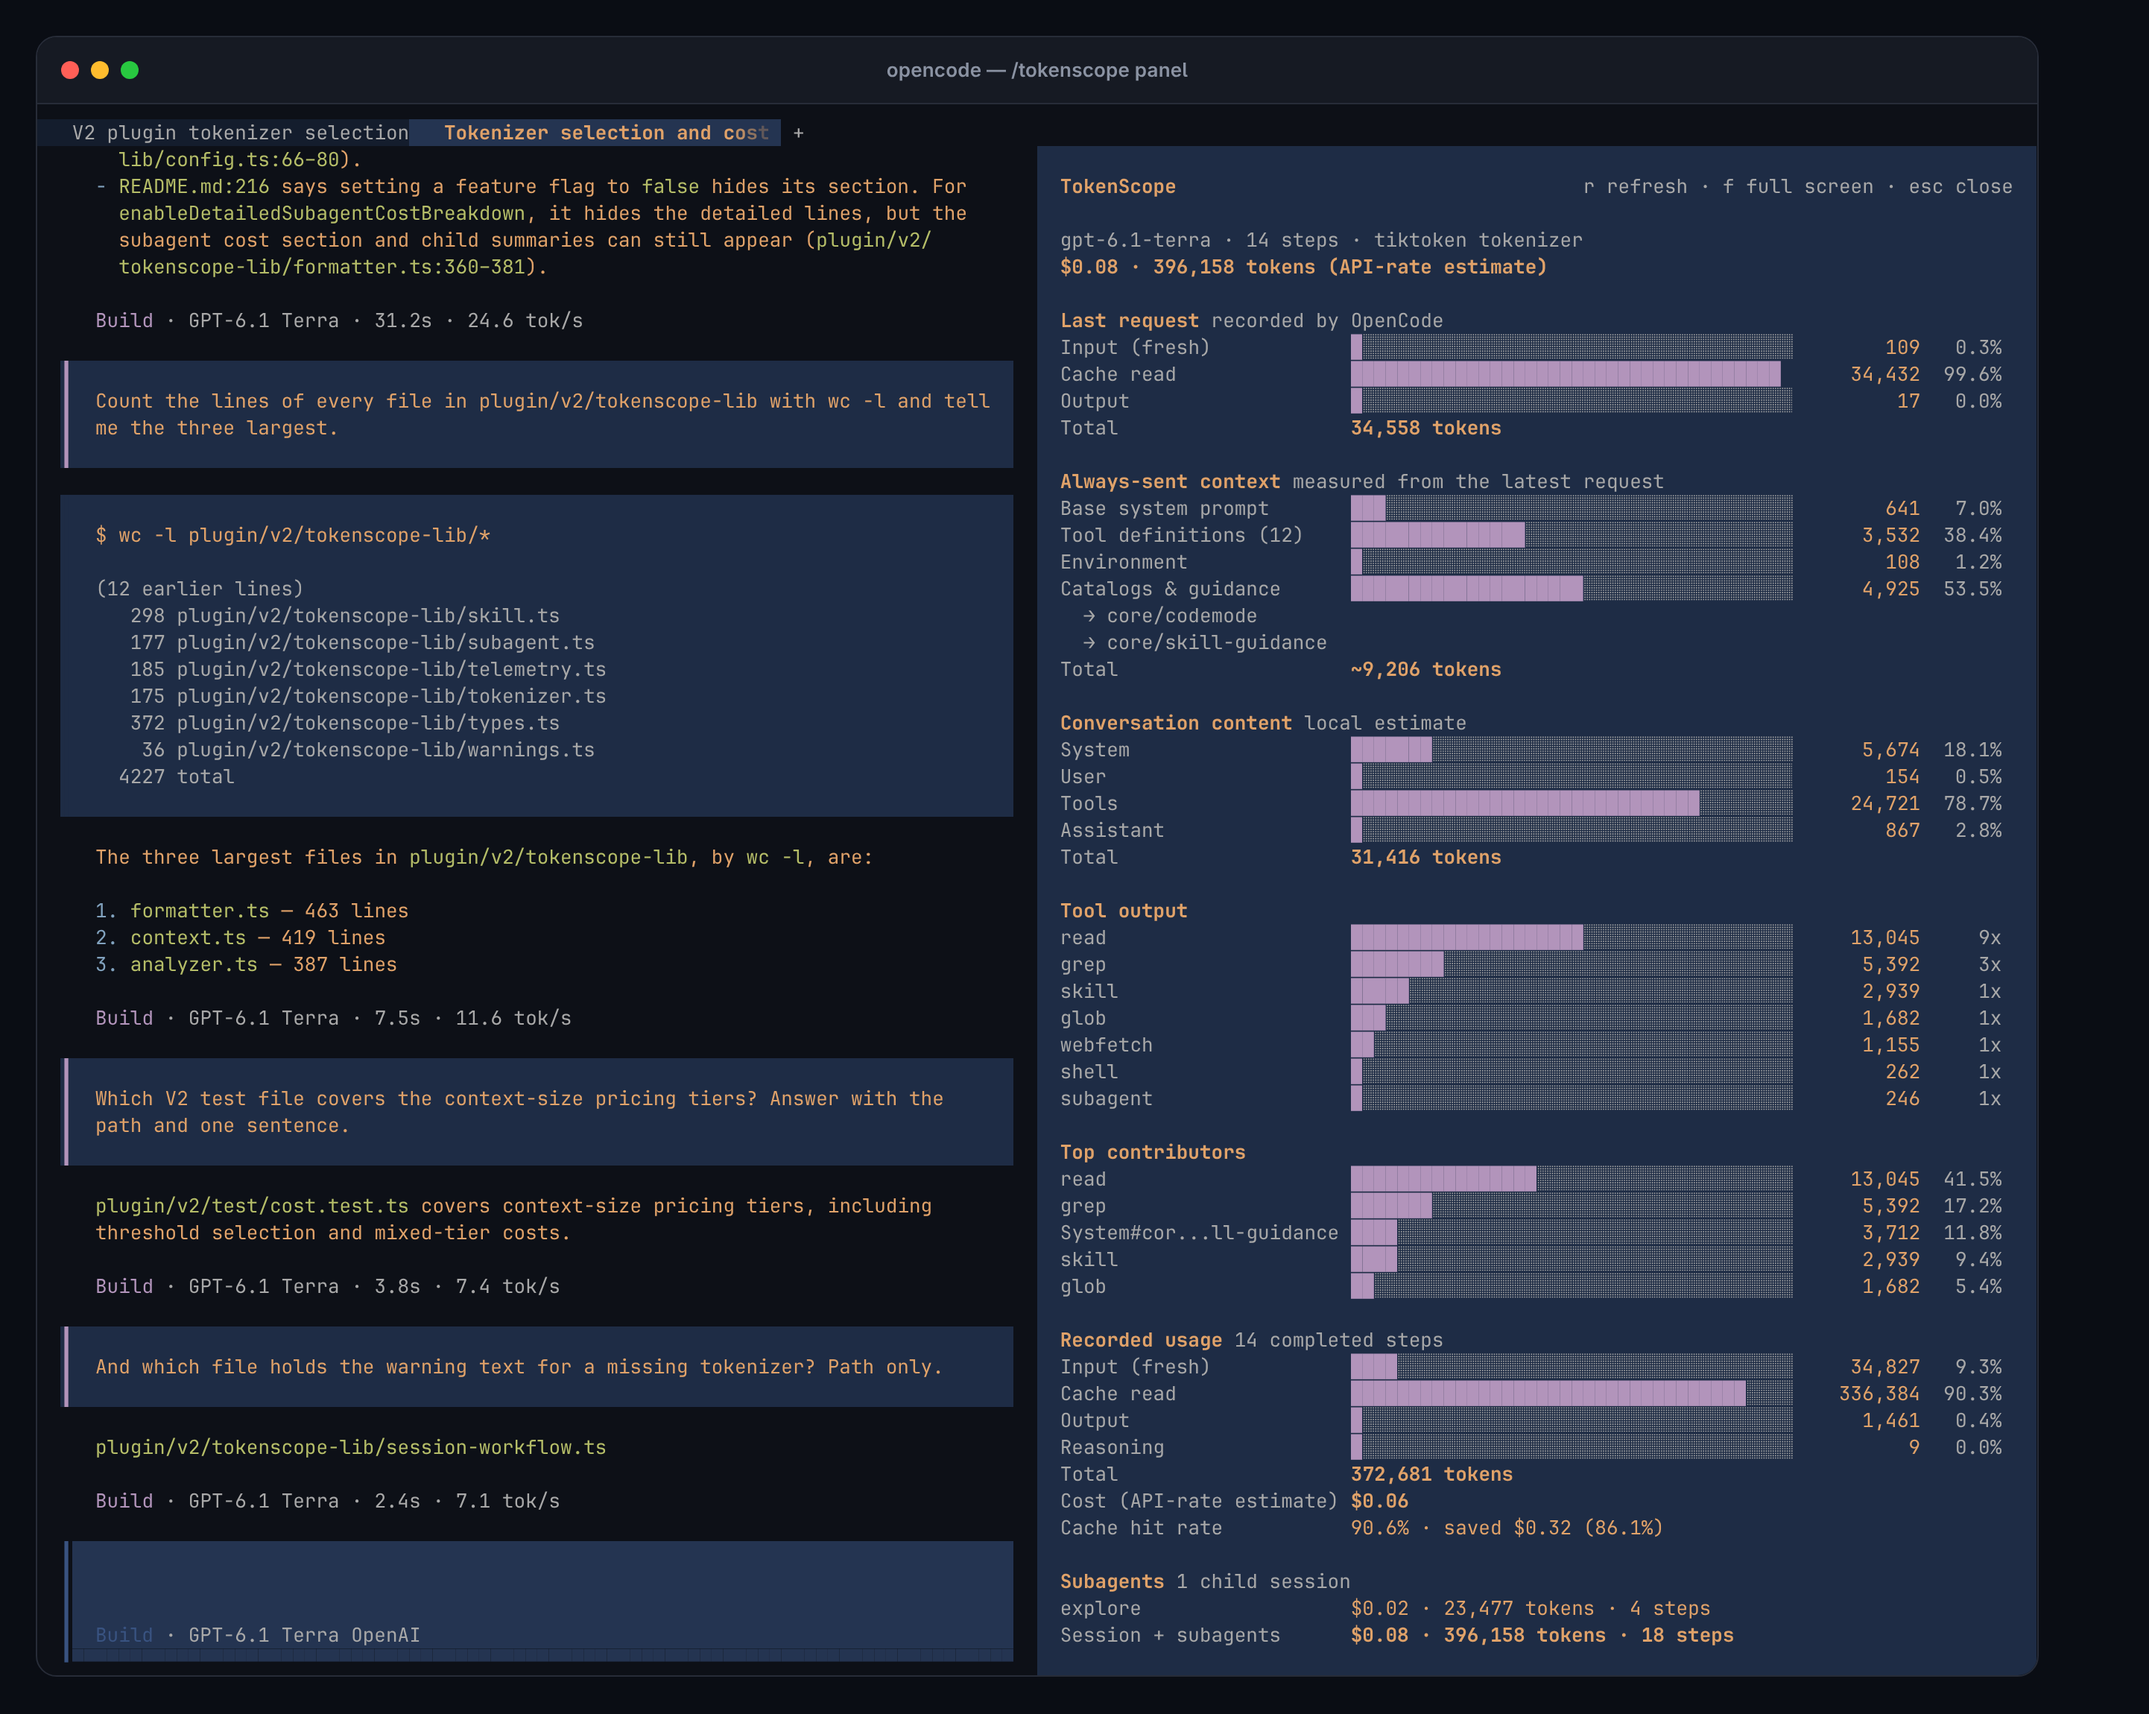
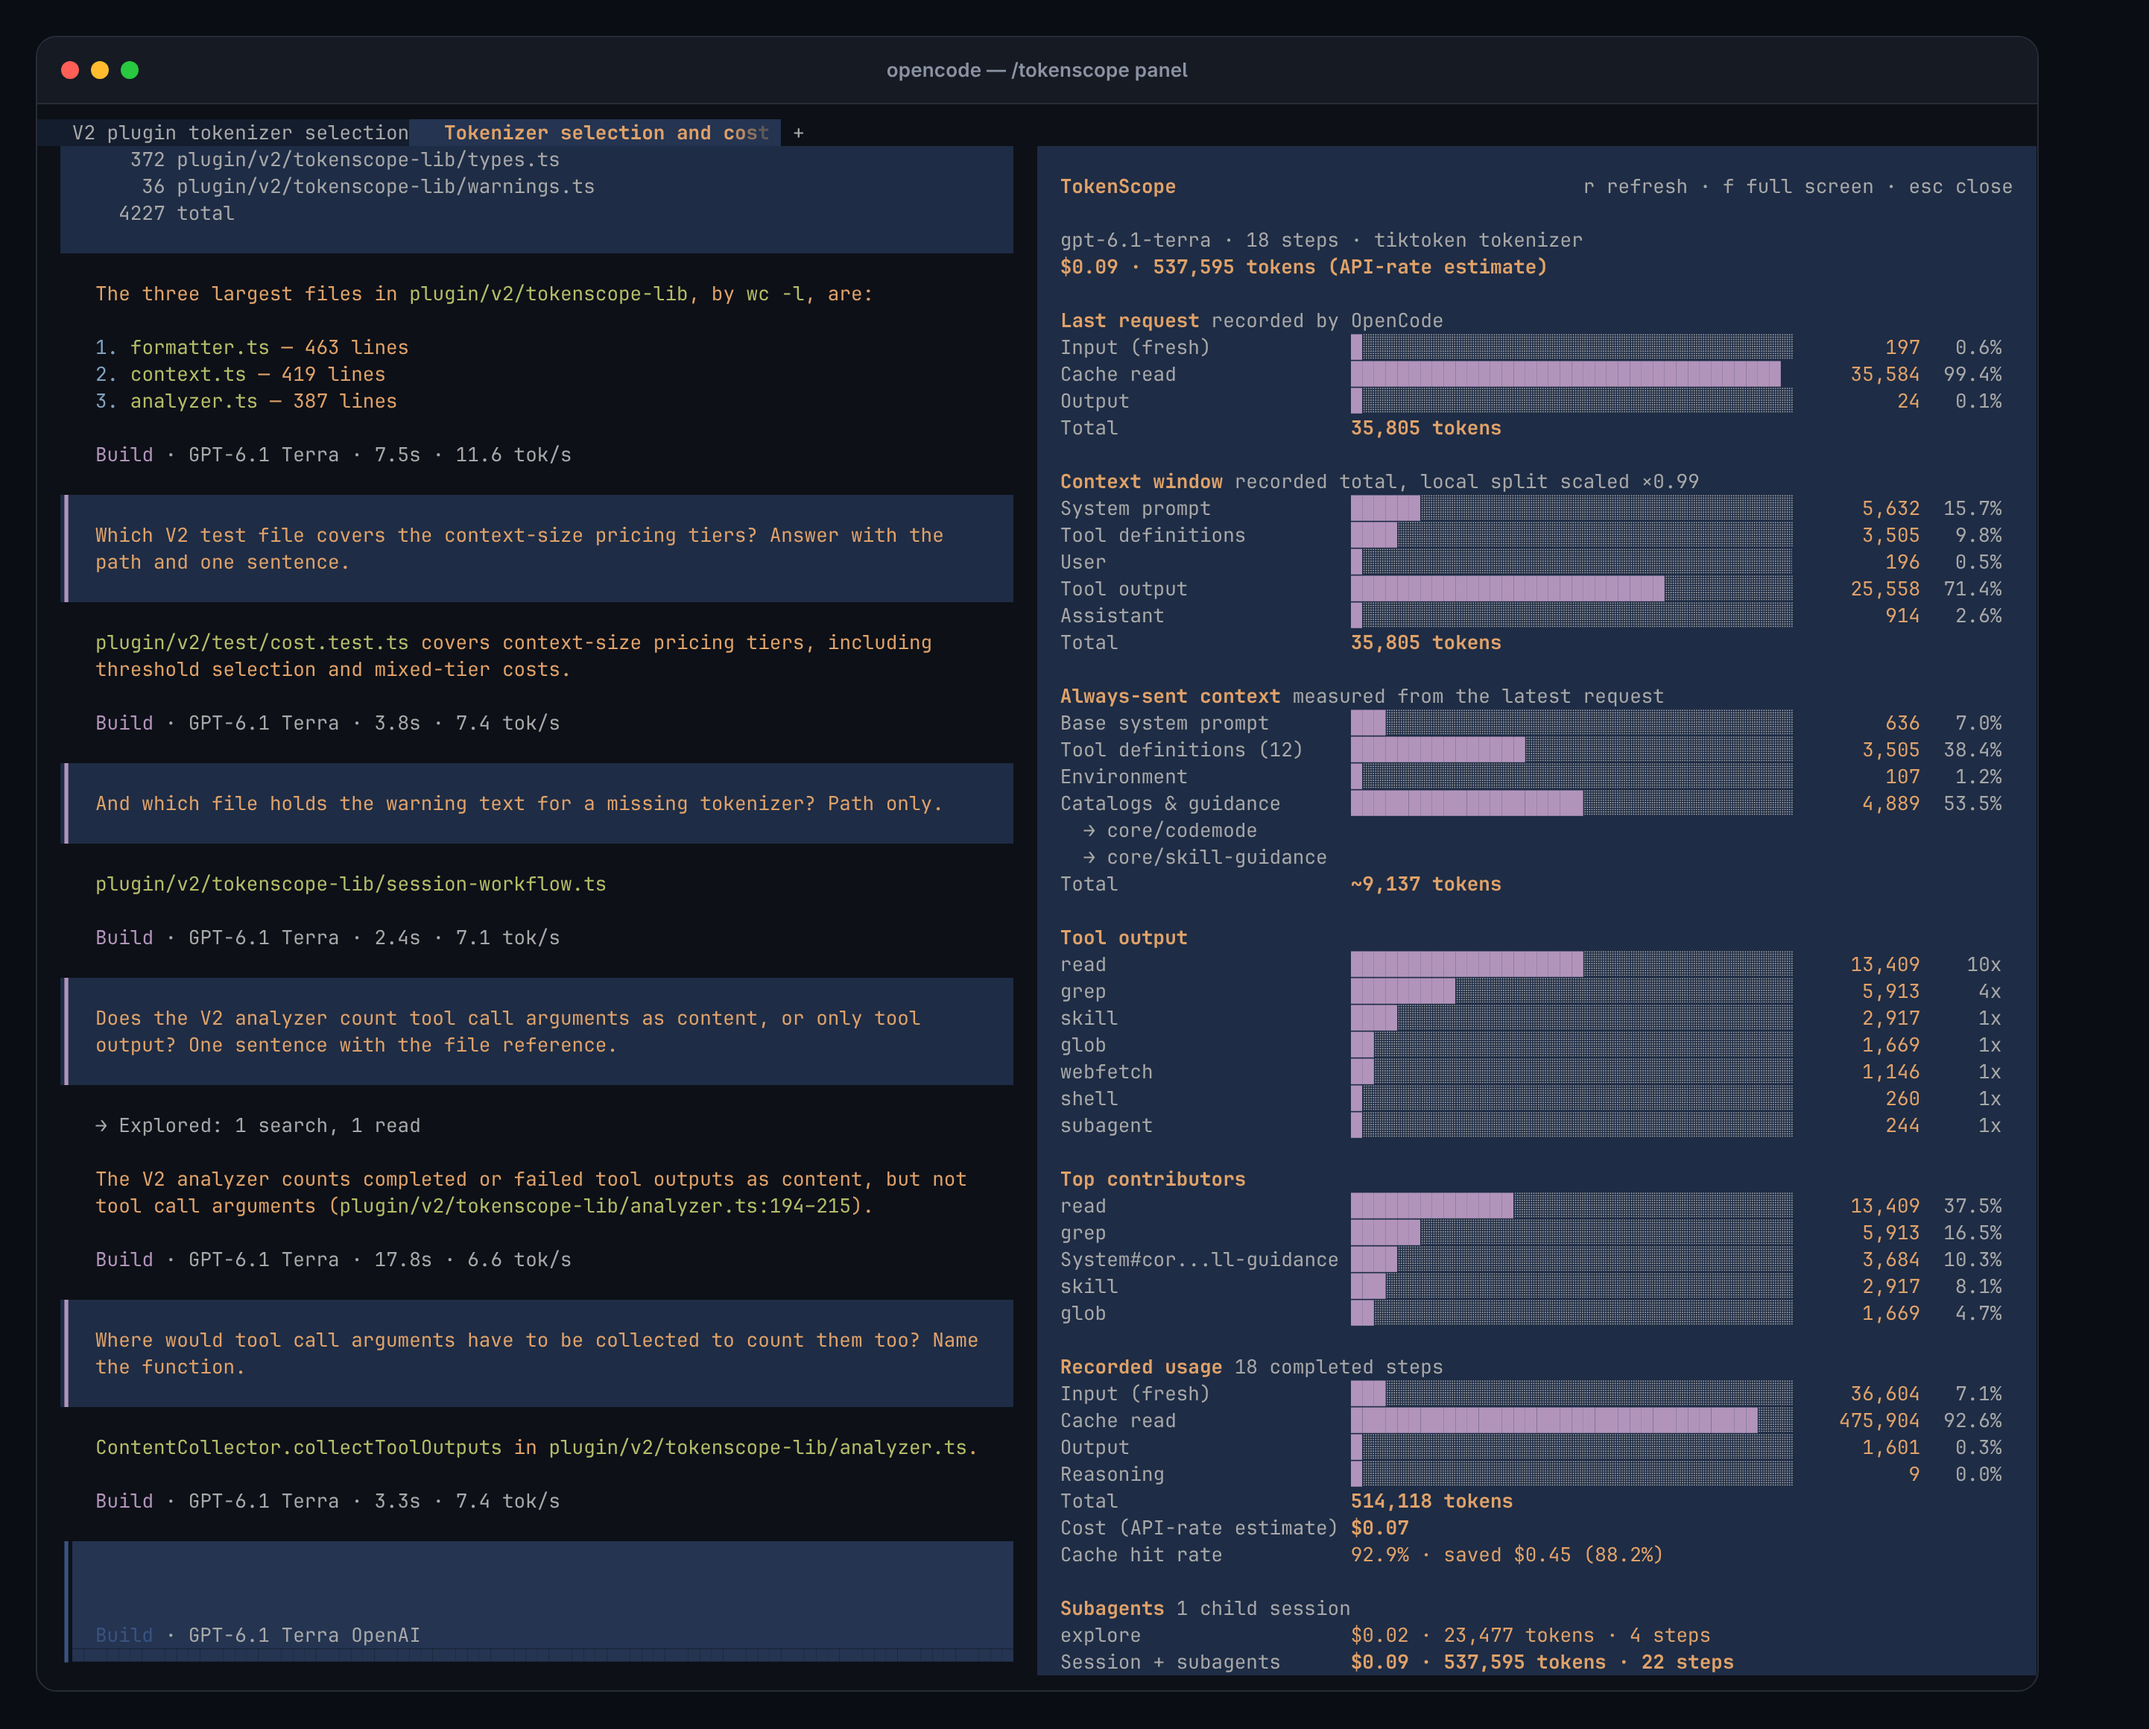
docs: describe the scaled context window split

diff --git a/plugin/README.md b/plugin/README.md
@@ -82,13 +82,14 @@ The script checks `opencode --version`. On OpenCode V2 it runs `opencode plugin 
 
 ### Token usage panel (OpenCode V2)
 
-![The TokenScope panel open beside an OpenCode V2 session, showing the last request, the always-sent context, conversation content, tool output, and top contributors as bars](https://raw.githubusercontent.com/ramtinJ95/opencode-tokenscope/main/docs/tokenscope-panel.png)
+![The TokenScope panel open beside an OpenCode V2 session, showing the last request, the context window split by source, the always-sent context, tool output, top contributors, recorded usage, and subagents](https://raw.githubusercontent.com/ramtinJ95/opencode-tokenscope/main/docs/tokenscope-panel.png)
 
 On OpenCode V2, `/tokenscope` opens a panel beside the session instead of printing a report into it. The command is also in the command palette as "Token usage report".
 
 - **No model request.** The panel reads the analysis directly from the plugin, so opening it costs nothing and adds nothing to the session being measured.
 - **Stays current.** It reloads on its own each time the session finishes a turn.
-- **Sections.** The session total, warnings, the last request as OpenCode recorded it, the always-sent context (system prompt and tool definitions), conversation content, tool output, top contributors, recorded usage with cost and cache hit rate, and subagents when the session has any.
+- **Provider numbers as totals.** The last request, recorded usage, and session totals are the counts OpenCode recorded from the provider. The provider reports one count per request, not what it was made of, so the split by source (system prompt, tool definitions, user, tool output, assistant) is tokenized locally and then scaled so it adds up to the recorded context of the last request. The panel shows the scale it applied, for example `×0.99`.
+- **Sections.** The session total, warnings, the last request, the context window by source, the always-sent context (system prompt and tool definitions), tool output by tool, top contributors, recorded usage with cost and cache hit rate, and subagents when the session has any.
 
 | Key | Action |
 | --- | --- |
@@ -96,6 +97,8 @@ On OpenCode V2, `/tokenscope` opens a panel beside the session instead of printi
 | `f` | Toggle between the side panel and full screen |
 | `↑` `↓` `PgUp` `PgDn` | Scroll |
 | `esc` | Close the panel |
+
+The split is left as an unscaled local estimate, and labeled as one, when the request was not captured (a session with no request since OpenCode started) or when the local estimate is more than twice or less than half the recorded context. The text report prints local estimates unscaled.
 
 On a narrow terminal OpenCode shows the panel full screen. For the complete text report, run `/tokenscope-report`.
 

diff --git a/README.md b/README.md
@@ -82,13 +82,14 @@ The script checks `opencode --version`. On OpenCode V2 it runs `opencode plugin 
 
 ### Token usage panel (OpenCode V2)
 
-![The TokenScope panel open beside an OpenCode V2 session, showing the last request, the always-sent context, conversation content, tool output, and top contributors as bars](docs/tokenscope-panel.png)
+![The TokenScope panel open beside an OpenCode V2 session, showing the last request, the context window split by source, the always-sent context, tool output, top contributors, recorded usage, and subagents](docs/tokenscope-panel.png)
 
 On OpenCode V2, `/tokenscope` opens a panel beside the session instead of printing a report into it. The command is also in the command palette as "Token usage report".
 
 - **No model request.** The panel reads the analysis directly from the plugin, so opening it costs nothing and adds nothing to the session being measured.
 - **Stays current.** It reloads on its own each time the session finishes a turn.
-- **Sections.** The session total, warnings, the last request as OpenCode recorded it, the always-sent context (system prompt and tool definitions), conversation content, tool output, top contributors, recorded usage with cost and cache hit rate, and subagents when the session has any.
+- **Provider numbers as totals.** The last request, recorded usage, and session totals are the counts OpenCode recorded from the provider. The provider reports one count per request, not what it was made of, so the split by source (system prompt, tool definitions, user, tool output, assistant) is tokenized locally and then scaled so it adds up to the recorded context of the last request. The panel shows the scale it applied, for example `×0.99`.
+- **Sections.** The session total, warnings, the last request, the context window by source, the always-sent context (system prompt and tool definitions), tool output by tool, top contributors, recorded usage with cost and cache hit rate, and subagents when the session has any.
 
 | Key | Action |
 | --- | --- |
@@ -96,6 +97,8 @@ On OpenCode V2, `/tokenscope` opens a panel beside the session instead of printi
 | `f` | Toggle between the side panel and full screen |
 | `↑` `↓` `PgUp` `PgDn` | Scroll |
 | `esc` | Close the panel |
+
+The split is left as an unscaled local estimate, and labeled as one, when the request was not captured (a session with no request since OpenCode started) or when the local estimate is more than twice or less than half the recorded context. The text report prints local estimates unscaled.
 
 On a narrow terminal OpenCode shows the panel full screen. For the complete text report, run `/tokenscope-report`.
 

diff --git a/CHANGELOG.md b/CHANGELOG.md
@@ -10,6 +10,7 @@ and this project adheres to [Semantic Versioning](https://semver.org/spec/v2.0.0
 ### Added
 
 - On OpenCode V2, `/tokenscope` opens a token usage panel beside the session. The panel reads the analysis from the plugin over RPC, so it makes no model request and adds nothing to the session, and it reloads when the session finishes a turn. It is also in the command palette as "Token usage report".
+- The panel's context window split is scaled to the context OpenCode recorded for the last request, so its rows add up to the provider's count. Local tokenization only supplies the proportions.
 - Added bundled pricing for `gpt-6.1-terra` from models.dev.
 
 ### Changed
